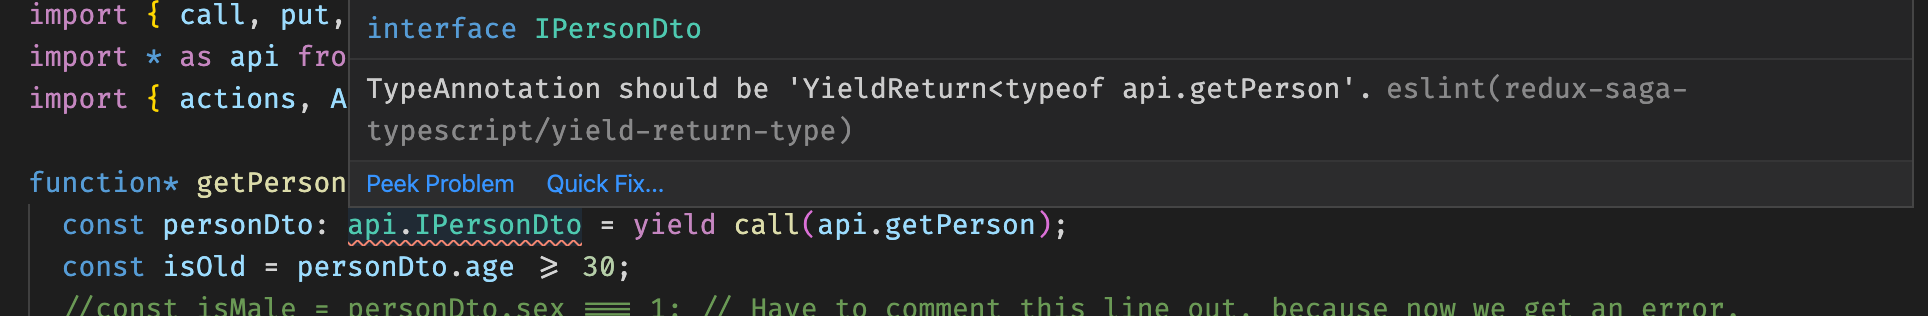
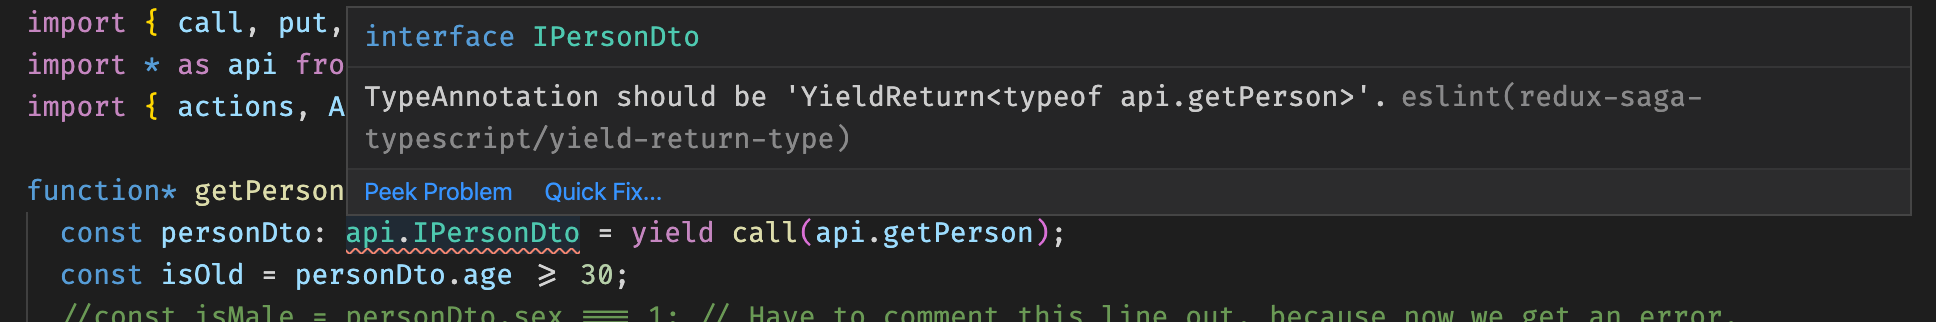
Fixed some errors

diff --git a/packages/eslint/src/rules/yield-return-type.js b/packages/eslint/src/rules/yield-return-type.js
@@ -29,7 +29,7 @@ module.exports = {
                     node.init.argument.arguments[0].type === "MemberExpression"
                   ) {
                     const argumentSource = sourceCode.getText(node.init.argument.arguments[0]);
-                    const expected = `YieldReturn<typeof ${argumentSource}`;
+                    const expected = `YieldReturn<typeof ${argumentSource}>`;
                     if (node.id.typeAnnotation === undefined) {
                       context.report({
                         node,

diff --git a/README.md b/README.md
@@ -57,7 +57,7 @@ function* getPerson() {
 }
 ```
 
-The difference is that no I'm telling TypeScript that `personDto` is of type `IPersonDto`. That gives me intellisense and as long as the return value of `api.getPerson` doesn't change - and I got it right in the first place - everything is fine.
+The difference is that now I'm telling TypeScript that `personDto` is of type `IPersonDto`. That gives me intellisense and as long as the return value of `api.getPerson` doesn't change - and I got it right in the first place - everything is fine.
 
 But in the real world things do change and if the actual value returned doesn't match with what I have told TypeScript, I get no build error, but maybe a runtime error or odd behavior at some time.
 
@@ -85,7 +85,7 @@ function bar(fooresult: ReturnType<typeof foo>) {
 }
 ```
 
-How is this useful? Well, the problem i Take One was that we had to give the exact type that was returned by the API function. And we could get that wrong or it could change in the future.
+How is this useful? Well, the problem in Take One was that we had to give the exact type that was returned by the API function. And we could get that wrong or it could change in the future.
 
 So wouldn't i be nice if we could use `RetunrType` instead? Something like this:
 
@@ -95,13 +95,13 @@ const personDto: ReturnType<typeof api.getPerson> = yield call(api.getPerson);
 
 Unfortunately we can't do it like that. We need a bit more TypeScript magic, but we will come to that in a minute.
 
-I'm still manually specifying the type, so why is this better? Well, it is easy to see if have got it right in the first place, because the generic parameter shall match the name of the function I'm calling. And what will happen if the type returned by `api.getPerson` changes, for instance if the `age` property is renamed? Now I will get a build error.
+I'm still manually specifying the type, so why is this better? Well, it is easy to see if have got it right in the first place, because the generic parameter should match the name of the function I'm calling. And what will happen if the type returned by `api.getPerson` changes, for instance if the `age` property is renamed? Now I will get a build error.
 
 But I said that it didn't work, so what is missing.
 
 The problem is that I'm not really interested in the return type of `api.getPerson` because it is an `async` function that return a `Promise`. Actually a `Promise<T>` and it is the `T` that I want.
 
-Fortunately TypeScript has at lot of advanced type related functions, and we can write a little helper to do the trick.
+Fortunately TypeScript has at lot of advanced type related functions, and we can write a little helper to do the trick and extract the generic typeargument from the return type.
 
 ```typescript
 type R<T> = T extends Promise<infer U> ? U : T;
